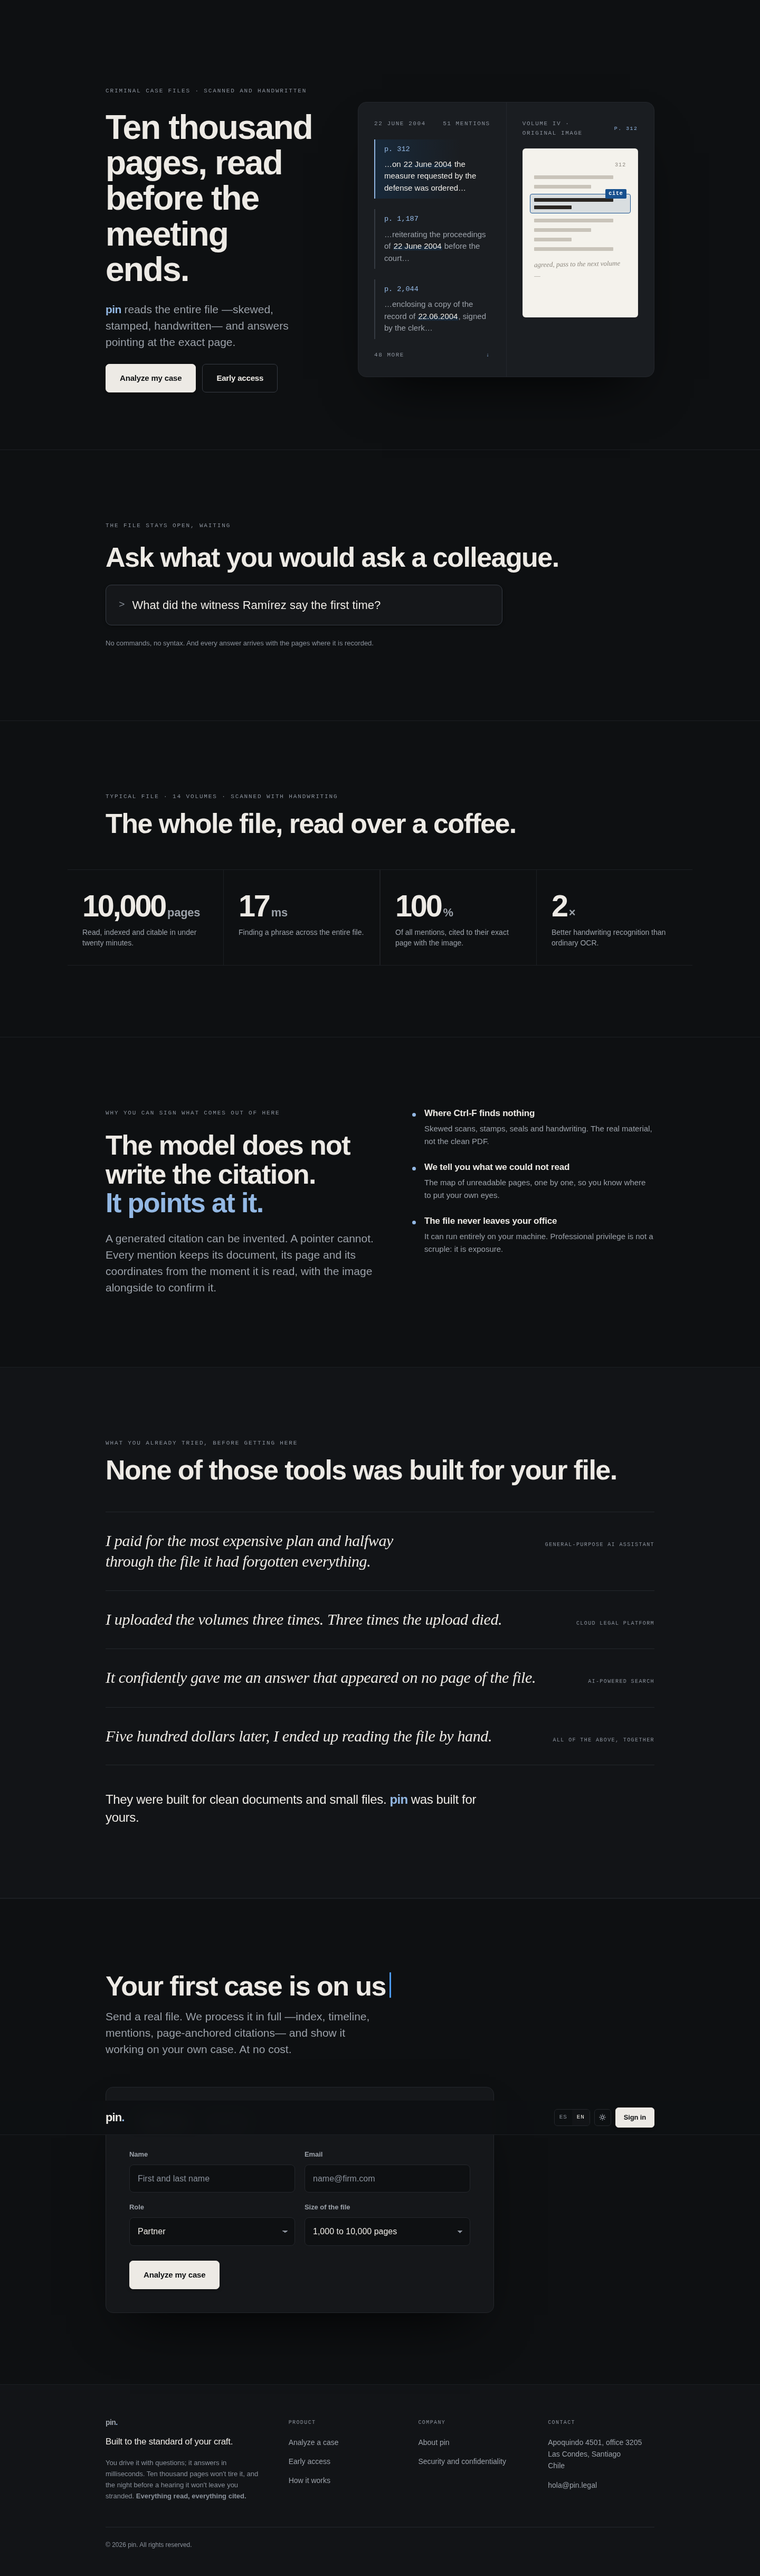
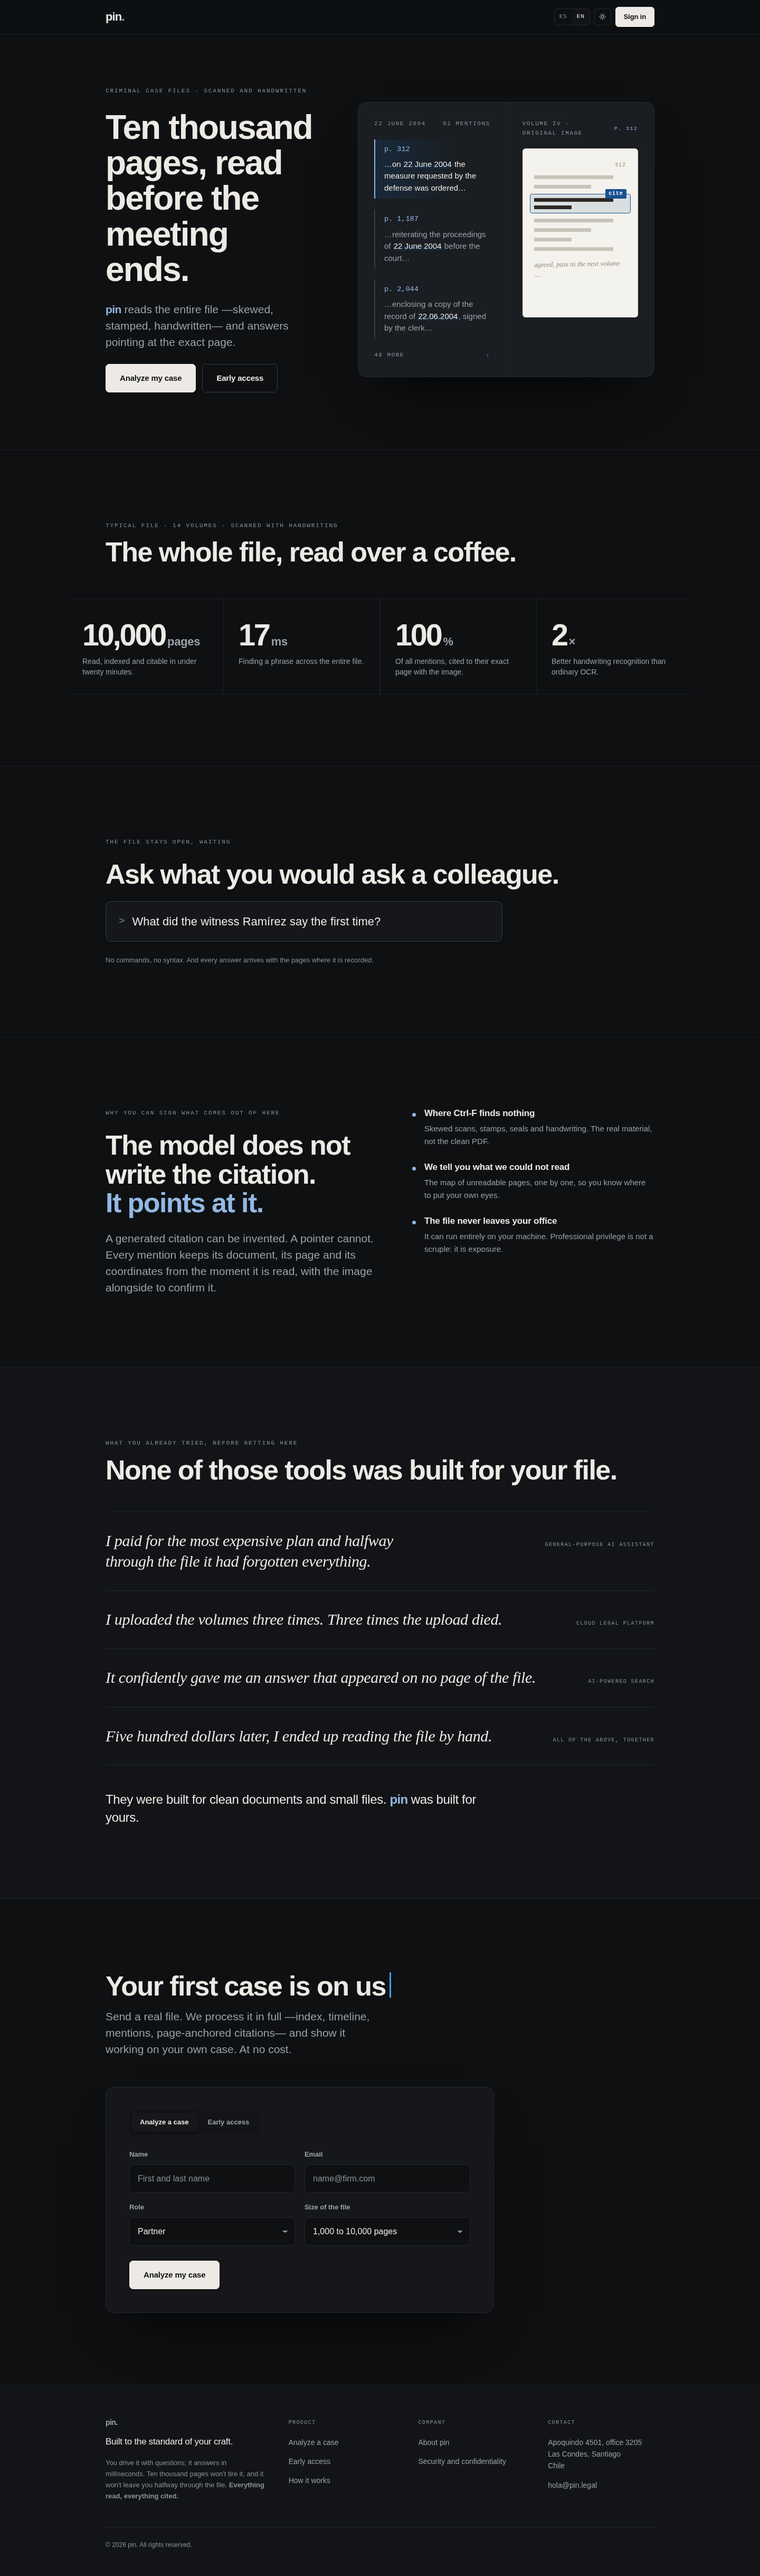
feat(landing): swap Figures/Ask order and soften footer sub-line, contract to v10
Owner final fix:
- Section order is now Hero -> Figures -> Ask -> Thesis -> Quotes -> Form
  (component order only, both locales).
- Footer sub-line softened: "no lo deja a mitad del expediente" /
  "won't leave you halfway through the file" replaces the hearing phrase.
  Head and emphasized seal unchanged.
- Fidelity contract advanced to v10 in place; evidence regenerated
  (footer + full-page order, light/dark x ES/EN).

diff --git a/design/prototype/pin-landing-v8.html b/design/prototype/pin-landing-v8.html
@@ -1,6 +1,7 @@
 <!--
-  v9 = v8 + tagline final del footer + reorden de secciones
-       (Héroe → Pregunta → Cifras → Tesis → Quejas → Formulario)
+  v10 = v9 + intercambio Cifras/Pregunta
+        (Héroe → Cifras → Pregunta → Tesis → Quejas → Formulario)
+        + bajada del footer suavizada
   2026-07-30 · decisión del dueño vía dirección
 -->
 <title>pin — el expediente completo, respondiendo</title>
@@ -747,21 +748,6 @@
     </div>
   </section>
 
-  <!-- ============ EL PUNTO ABIERTO ============ -->
-  <section>
-    <div class="wrap stack">
-      <p class="eyebrow rise" data-i18n="ask.eyebrow">El expediente queda abierto, esperando</p>
-      <h2 class="rise" style="--d:70ms" data-i18n="ask.h2">Pregunte lo que preguntaría un colega.</h2>
-      <div class="ask rise" style="--d:150ms" aria-hidden="true">
-        <span class="glyph-ask">&gt;</span>
-        <span class="typed"><span id="typed-text"></span><span class="caret"></span></span>
-      </div>
-      <p class="aside rise" style="--d:220ms" data-i18n="ask.aside">
-        Sin comandos, sin sintaxis. Y toda respuesta llega con las páginas donde consta.
-      </p>
-    </div>
-  </section>
-
   <!-- ============ CIFRAS ============ -->
   <section>
     <div class="wrap stack-s">
@@ -788,6 +774,21 @@
           <p class="fig-t" data-i18n="figs.t4">Mejor lectura del manuscrito que un OCR corriente.</p>
         </div>
       </div>
+    </div>
+  </section>
+
+  <!-- ============ EL PUNTO ABIERTO ============ -->
+  <section>
+    <div class="wrap stack">
+      <p class="eyebrow rise" data-i18n="ask.eyebrow">El expediente queda abierto, esperando</p>
+      <h2 class="rise" style="--d:70ms" data-i18n="ask.h2">Pregunte lo que preguntaría un colega.</h2>
+      <div class="ask rise" style="--d:150ms" aria-hidden="true">
+        <span class="glyph-ask">&gt;</span>
+        <span class="typed"><span id="typed-text"></span><span class="caret"></span></span>
+      </div>
+      <p class="aside rise" style="--d:220ms" data-i18n="ask.aside">
+        Sin comandos, sin sintaxis. Y toda respuesta llega con las páginas donde consta.
+      </p>
     </div>
   </section>
 
@@ -992,7 +993,7 @@
         </p>
         <p class="aside" style="max-width:22rem" data-i18n-html="foot.blurb2">
           Se conduce con preguntas y responde en milisegundos. Diez mil páginas no lo cansan,
-          y la noche antes de la audiencia no lo deja solo. <strong>Todo leído, todo citado.</strong>
+          y no lo deja a mitad del expediente. <strong>Todo leído, todo citado.</strong>
         </p>
       </div>
 
@@ -1115,7 +1116,7 @@
       'ac.done': '<strong>Solicitud recibida.</strong> Le escribimos en cinco días hábiles con los pasos y las opciones de instalación.',
       'ac.back': '← Volver',
       'foot.blurb': 'A la altura de su oficio.',
-      'foot.blurb2': 'Se conduce con preguntas y responde en milisegundos. Diez mil páginas no lo cansan, y la noche antes de la audiencia no lo deja solo. <strong>Todo leído, todo citado.</strong>',
+      'foot.blurb2': 'Se conduce con preguntas y responde en milisegundos. Diez mil páginas no lo cansan, y no lo deja a mitad del expediente. <strong>Todo leído, todo citado.</strong>',
       'foot.h1': 'Producto', 'foot.h2': 'Empresa', 'foot.h3': 'Contacto',
       'foot.l1': 'Analizar un caso', 'foot.l2': 'Acceso anticipado',
       'foot.l4': 'Cómo funciona',
@@ -1204,7 +1205,7 @@
       'ac.done': '<strong>Request received.</strong> We will write within five business days with the next steps and deployment options.',
       'ac.back': '← Back',
       'foot.blurb': 'Built to the standard of your craft.',
-      'foot.blurb2': "You drive it with questions; it answers in milliseconds. Ten thousand pages won't tire it, and the night before a hearing it won't leave you stranded. <strong>Everything read, everything cited.</strong>",
+      'foot.blurb2': "You drive it with questions; it answers in milliseconds. Ten thousand pages won't tire it, and it won't leave you halfway through the file. <strong>Everything read, everything cited.</strong>",
       'foot.h1': 'Product', 'foot.h2': 'Company', 'foot.h3': 'Contact',
       'foot.l1': 'Analyze a case', 'foot.l2': 'Early access',
       'foot.l4': 'How it works',

diff --git a/src/i18n/index.ts b/src/i18n/index.ts
@@ -86,7 +86,7 @@ export const T = {
     'ac.done': '<strong>Solicitud recibida.</strong> Le escribimos en cinco días hábiles con los pasos y las opciones de instalación.',
     'ac.back': '← Volver',
     'foot.blurb': 'A la altura de su oficio.',
-    'foot.blurb2': 'Se conduce con preguntas y responde en milisegundos. Diez mil páginas no lo cansan, y la noche antes de la audiencia no lo deja solo. <strong>Todo leído, todo citado.</strong>',
+    'foot.blurb2': 'Se conduce con preguntas y responde en milisegundos. Diez mil páginas no lo cansan, y no lo deja a mitad del expediente. <strong>Todo leído, todo citado.</strong>',
     'foot.h1': 'Producto', 'foot.h2': 'Empresa', 'foot.h3': 'Contacto',
     'foot.l1': 'Analizar un caso', 'foot.l2': 'Acceso anticipado',
     'foot.l4': 'Cómo funciona',
@@ -175,7 +175,7 @@ export const T = {
     'ac.done': '<strong>Request received.</strong> We will write within five business days with the next steps and deployment options.',
     'ac.back': '← Back',
     'foot.blurb': 'Built to the standard of your craft.',
-    'foot.blurb2': "You drive it with questions; it answers in milliseconds. Ten thousand pages won't tire it, and the night before a hearing it won't leave you stranded. <strong>Everything read, everything cited.</strong>",
+    'foot.blurb2': "You drive it with questions; it answers in milliseconds. Ten thousand pages won't tire it, and it won't leave you halfway through the file. <strong>Everything read, everything cited.</strong>",
     'foot.h1': 'Product', 'foot.h2': 'Company', 'foot.h3': 'Contact',
     'foot.l1': 'Analyze a case', 'foot.l2': 'Early access',
     'foot.l4': 'How it works',

diff --git a/CHANGELOG.md b/CHANGELOG.md
@@ -5,6 +5,22 @@ The format is based on [Keep a Changelog](https://keepachangelog.com/en/1.1.0/).
 
 ## [Unreleased]
 
+### Changed (owner final fix, 2026-07-30)
+
+- Figures and Ask swapped: section order is now Hero → Figures → Ask → Thesis →
+  Quotes → Form (was Hero → Ask → Figures → …). Only the component order in
+  `src/pages/index.astro` and `src/pages/en/index.astro` changed.
+- Footer sub-line softened (owner decision — the hearing phrase was
+  compromising): now "…y no lo deja a mitad del expediente." / "…and it won't
+  leave you halfway through the file." The head ("A la altura de su oficio." /
+  "Built to the standard of your craft.") and the emphasized seal ("Todo leído,
+  todo citado." / "Everything read, everything cited.") are unchanged.
+- Fidelity contract advanced to v10 in place
+  (`design/prototype/pin-landing-v8.html`): same two changes, header comment
+  updated (v10 = v9 + Figures/Ask swap + softened footer sub-line).
+- Footer and full-page order evidence regenerated in `design/evidence/`
+  (light/dark × ES/EN).
+
 ### Changed (owner decision via direction, 2026-07-30)
 
 - Final footer tagline, in two levels: head "A la altura de su oficio." /
